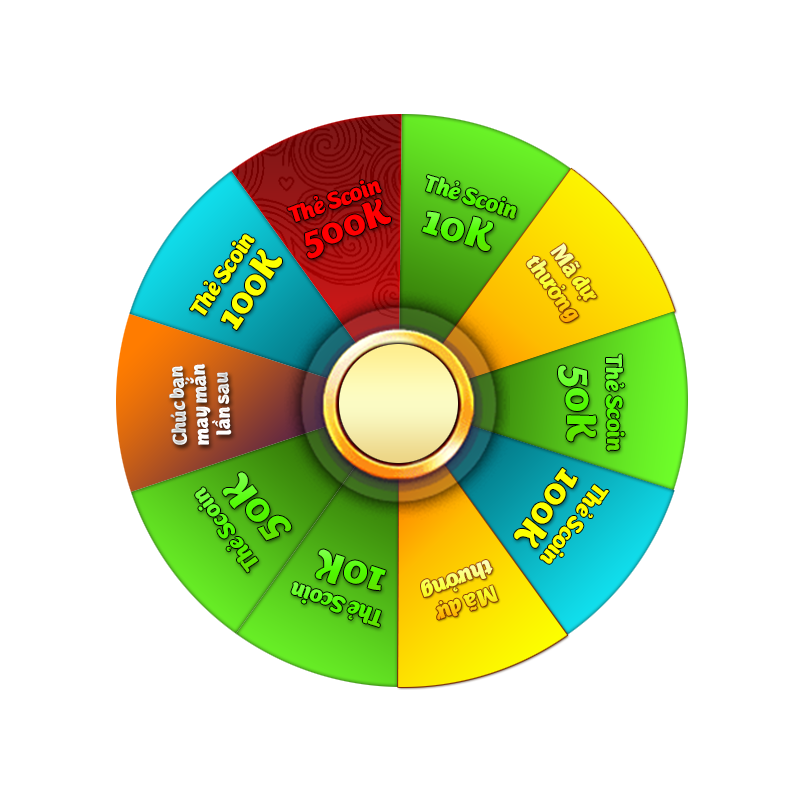
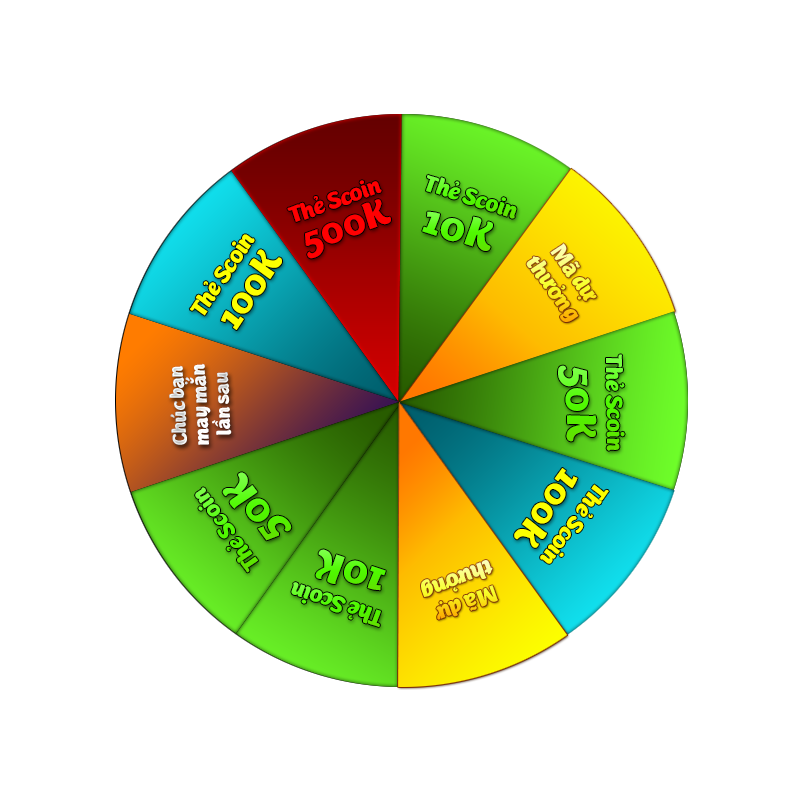
fix

Changed region(s): [[0.342, 0.3731, 0.653, 0.653], [0.1555, 0.5908, 0.1866, 0.6219], [0.1555, 0.3731, 0.1866, 0.4042]]

diff --git a/src/containers/lucky_rotation/index.js b/src/containers/lucky_rotation/index.js
@@ -29,7 +29,6 @@ import {
 } from '../../modules/profile'
 import rotaion from './images/muivongquay.png'
 import bg_rotaion from './khungvongquay.png'
-import muiten from './muiten.png'
 
 import backtotop from './images/backtotop.png'
 import sukiendangdienra from './images/btn-sukiendangdienra.png'
@@ -53,6 +52,7 @@ import img_thele from './images/img-thele.png';
 import img_tudo from './images/img-tudo.png';
 import img_maduthuong from './images/img-maduthuong.png';
 import img_thongbao from './images/img-thongbao.png';
+import muiten from './images/muiten.png';
 import $ from 'jquery';
 import 'bootstrap';
 
@@ -98,15 +98,35 @@ class Lucky_Rotation extends React.Component {
 			listVinhDanh:[],
 			listTuDo:[],
 			listCodeBonus:[],
+			width:0,
+			height:0,
+			img_width:0,
+			img_height:0,
 		};
 	}
 	componentWillMount(){
+		if (window.innerWidth <= 320) {
+			this.setState({ width: 300, height: 375, img_width:300, img_height:300,});
+		}
+		if (window.innerWidth > 320 && window.innerWidth <= 480) {
+			this.setState({ width: 320, height: 400, img_width:320, img_height:320});
+		}
+		if (window.innerWidth > 480 && window.innerWidth <= 768) {
+			this.setState({ width: 400, height: 500, img_width:500, img_height:500});
+		}
+		if (window.innerWidth > 768 && window.innerWidth < 1024) {
+			this.setState({ width: 475, height: 600, img_width:600, img_height:600});
+		}
+		if (window.innerWidth >= 1024) {
+			this.setState({ width: 685, height: 860, img_width:750, img_height:750});
+		}
 		window.removeEventListener('scroll', this.handleScroll);
 	}
 
 
 
 	componentDidMount(){
+		const {img_width, img_height}=this.state;
 		var user = JSON.parse(localStorage.getItem("user"));
 		if (user !== null) {
 			this.props.getRotationDetailDataUser(user.access_token, 0).then(()=>{
@@ -162,8 +182,17 @@ class Lucky_Rotation extends React.Component {
 			theWheel.wheelImage = loadedImg;   
 			theWheel.draw();                    
 		}
+		loadedImg.width=img_width;
+		loadedImg.height=img_height;
 		loadedImg.src = rotaion;
 		this.setState({theWheel:theWheel})
+		// var ctx=document.getElementById("new_canvas");
+		// var context = ctx.getContext('2d');
+		// var base_image = new Image();
+		// base_image.src = muiten;
+		// base_image.onload = function(){
+		// 	context.drawImage(base_image, 0, 0);
+		// }
 		window.addEventListener('scroll', this.handleScroll);
 	}
 
@@ -261,18 +290,21 @@ class Lucky_Rotation extends React.Component {
 
 	completeRotation=()=>{
 		const {auto, turnsFree, theWheel, itemBonus}=this.state;
-		var user = JSON.parse(localStorage.getItem("user"));
 		if(auto){
 			if(turnsFree>0){
-				var intervalId = setInterval(this.autoRotation, 1000);
-   				this.setState({intervalId: intervalId});
+				// var intervalId = setInterval(this.autoRotation, 2000);
+				   // this.setState({intervalId: intervalId});
+				   this.showPopup()
+			}
+			
+		}else{
+			if(itemBonus.type==="LUCKY_NUMBER"){
+				$('#myModal7').modal('show');
+			}else{
+				$('#myModal4').modal('show');
 			}
 		}
-		if(itemBonus.type==="LUCKY_NUMBER"){
-			$('#myModal7').modal('show');
-		}else{
-			$('#myModal4').modal('show');
-		}
+		
 		
 	}
 
@@ -283,9 +315,14 @@ class Lucky_Rotation extends React.Component {
 
 	autoRotation=()=>{
 		const {turnsFree}=this.state;
+		var _this=this;
 		if(turnsFree>0){
 			var user = JSON.parse(localStorage.getItem("user"));
-			this.props.pickCard(user.access_token, 119);
+			this.props.pickCard(user.access_token, 119).then(()=>{
+				if(_this.props.dataPick !==undefined){
+					this.setState({itemBonus: _this.props.dataPick.item}, ()=>{this.showPopup()})
+				}
+			});
 			this.props.getRotationDetailDataUser(user.access_token, 0).then(()=>{
 				var data=this.props.dataRotationWithUser;
 				if(data!==undefined){
@@ -294,6 +331,21 @@ class Lucky_Rotation extends React.Component {
 			});
 		}else{
 			clearInterval(this.state.intervalId);
+		}
+	}
+
+	showPopup=()=>{
+		const {itemBonus}=this.state;
+		if(itemBonus.type==="LUCKY_NUMBER"){
+			$('#myModal7').modal('show');
+			setTimeout(()=>{
+				$('#myModal7').modal('hide');
+			},1000)
+		}else{
+			setTimeout(()=>{
+				$('#myModal4').modal('hide');
+			},100)
+			$('#myModal4').modal('show');
 		}
 	}
 
@@ -412,7 +464,7 @@ class Lucky_Rotation extends React.Component {
 	}
 
 	render() {
-		const {dialogLoginOpen, dialogBonus, auto, dialogWarning, textWarning, isLogin, userTurnSpin, day, hour, minute, second,
+		const {height, width, dialogLoginOpen, dialogBonus, auto, dialogWarning, textWarning, isLogin, userTurnSpin, day, hour, minute, second,
 			 activeTuDo, activeCodeBonus, activeVinhDanh, numberItemInpage, countCodeBonus, countTuDo, countVinhDanh, listCodeBonus, listTuDo, listVinhDanh,itemBonus}=this.state;
 		const { classes } = this.props;
 		return (<div>
@@ -458,11 +510,12 @@ class Lucky_Rotation extends React.Component {
 				<div className="container content-inner-p2">
 					<h1 className="logo-p2"><img src={logo_p2} alt="Logo" width="600" className="img-fluid" /></h1>
 					<div className="vqmm">
-						<div className="bg_vqmm">
-							<canvas id="canvas" width="685" height="860" dataResponsiveMinWidth="180"  dataResponsiveScaleHeight="true">
-								<p style={{color: '#fff', textAlign:'center'}} >Sorry, your browser doesn't support canvas. Please try another.</p>
+							<canvas style={{padding:0}} id="canvas" width={width} height={height} data-responsiveMinWidth="180"  data-responsiveScaleHeight="true">
+								
 							</canvas>
-						</div>
+							{/* <canvas style={{marginTop:-(height+15), padding:0}} id="new_canvas" width={width} height={height} data-responsiveMinWidth="180"  data-responsiveScaleHeight="true">
+								
+							</canvas> */}
 						{/* <img src={vqmm_p2} alt="Vòng quay may mắn" className="img-fluid"/>     */}
 					</div>
 					<div className="btn-logout">
@@ -954,7 +1007,7 @@ class Lucky_Rotation extends React.Component {
 						<div className="card">
 						<div className="card-body content-chucmung mx-auto">
 						<div className="text-chucmung text-center">
-							<span className="text-white">Mã số dự thưởng Xe máy Honda Air Blade và Điện thoại iPhone XS Max đã được lưu trong Mã dự thưởng.</span>
+							<span className="pt-1 d-block">Mã số dự thưởng Xe máy Honda Air Blade và Điện thoại iPhone XS Max đã được lưu trong Mã dự thưởng.</span>
 							<label title="Xem phần thưởng" className="underline pt-2 d-block" style={{color:"#fff", cursor:'pointer'}} onClick={this.showModalCodeBonus}>Xem Mã dự thưởng</label>
 						</div>
 						<p className="small pt-2 mb-2 text-center">So Mã số dự thưởng tại chương trình Quay Thưởng vào lúc 6h giờ ngày 08/08/20019</p>

diff --git a/src/containers/lucky_rotation/css/style.css b/src/containers/lucky_rotation/css/style.css
@@ -33,8 +33,8 @@ font-style:normal;
 .page2 {background-image:url(../images/bg-p2.png); background-size: cover; background-position: center center; background-repeat: no-repeat; position: relative;}
 .content-inner-p2 {height: 1100px; width: 100%; position: relative !important; background-image:url(../images/bg2-p2.png); background-position: 14% 57%; background-repeat: no-repeat;}
 .logo-p2 {position: absolute; top: 11%; left: 5%; z-index: 99}
-.vqmm {position: absolute; top: 23%; left: 10%; width: 800px}
-.bg_vqmm {background-image:url(../images/vqmm-p2.png); background-repeat: no-repeat; background-repeat:'none'; z-index: 999;}
+.vqmm {position: absolute; top: 23%; left: 10%; width: 800px; background-image:url(../images/vqmm-p2.png); background-repeat: no-repeat; background-repeat:'none';background-size: 100%;}
+/* .bg_vqmm { z-index: 999;} */
 .btn-logout{position: absolute; top: 11%; right: 9%; font-size:1.25rem; color:#282652;}
 .btn-logout h5 {background-image:url(../images/btn-dangxuat-p2.png); background-repeat: no-repeat; background-size: 100%; width: 150px; height: 55px;}
 .btn-logout h5 a {line-height: 50px; color:#282652;}
